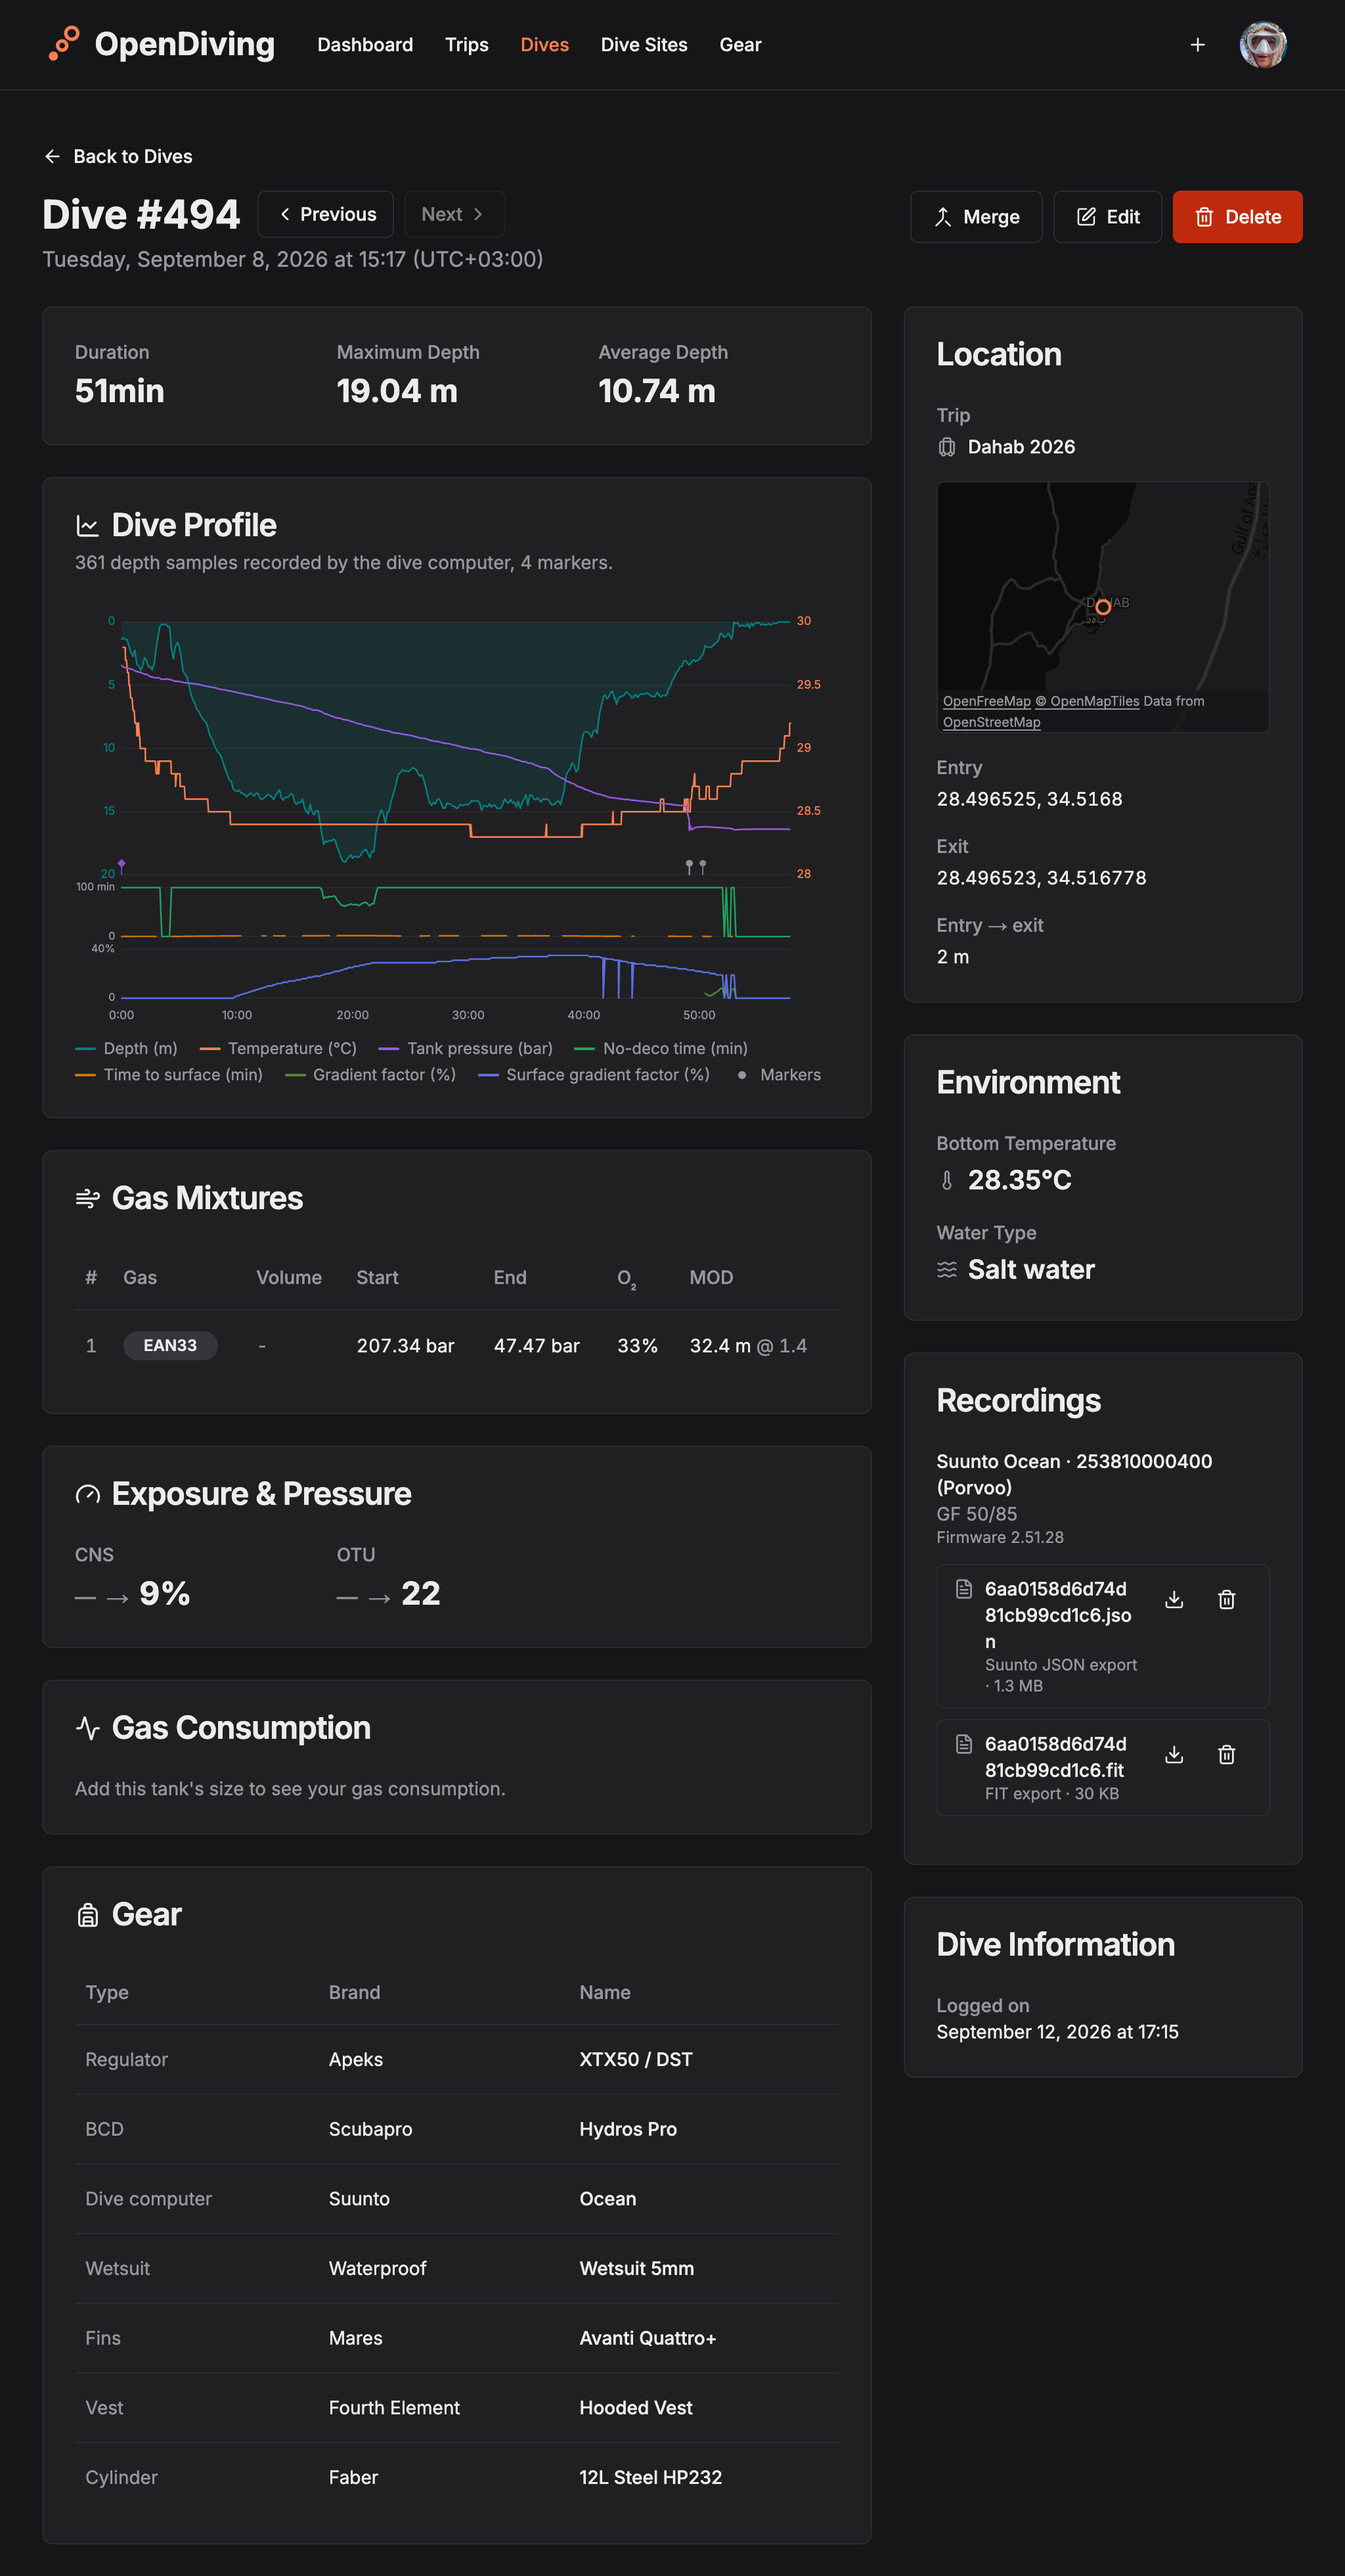
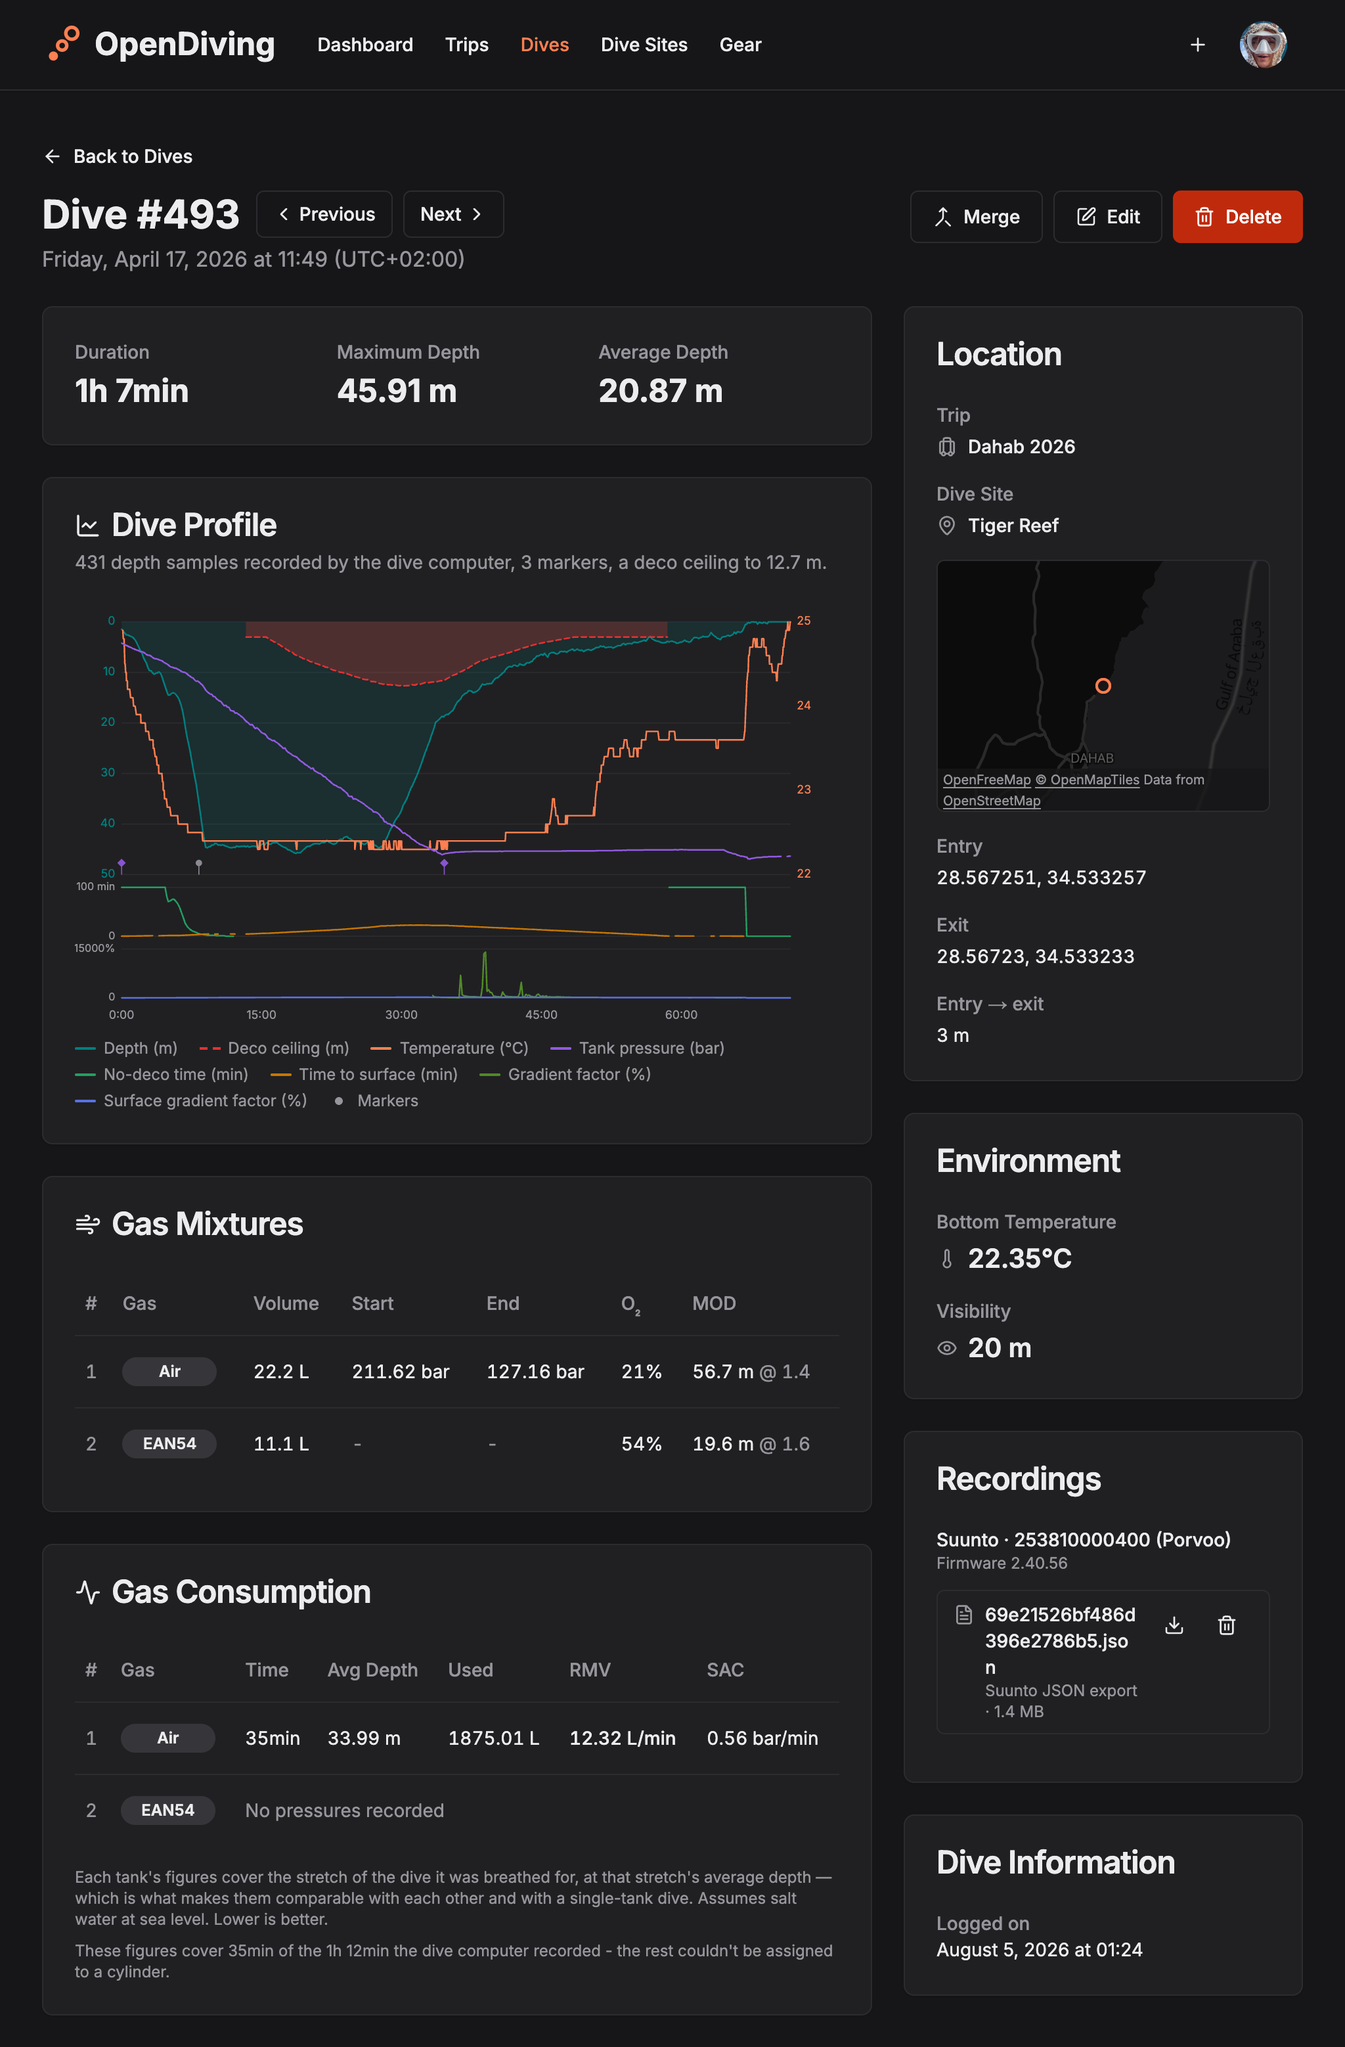
feat(screenshots): DIVE_UUID names the dive, and the image is of one with a ceiling
The rank is a count and counts tie. Every dive in a single-computer log
scores one, so the winner is whichever is most recent - which picked a dive
with no deco ceiling, no visibility and one mixture, whose Gas Consumption
card renders as an empty prompt rather than the SAC/RMV table.

DIVE_UUID skips the ranking rather than running it and overruling it. A uuid
that does not resolve, and one whose dive has no recording to chart, both
throw before the first shutter press; neither falls back.

The committed image is of a dive that carries a deco ceiling, a visibility
and two mixtures. Its geometry falsified two figures in DECISIONS.md - the
frame is no longer two thirds of the page nor the tallest of the three
images - so both are now described rather than counted.

diff --git a/DECISIONS.md b/DECISIONS.md
@@ -3506,6 +3506,26 @@ alternatives are both worse: verifying a second magic link server-side runs into
 three-per-email-per-fifteen-minutes limit within a single retake, and calling `/auth/refresh` from
 the page rotates the cookie out from under the app.
 
+**`DIVE_UUID` names the dive outright, for when the rank cannot tell the candidates apart.** The
+rank is a count, and counts tie. In a log whose dives each came off one computer every candidate
+scores one, nothing ever beats the first, and the subject is simply the most recent dive - which is
+not a property worth photographing. That picked one with no deco ceiling, no visibility and a single
+mixture, whose _Gas Consumption_ card renders as the prompt to enter a start and end pressure
+instead of the derived SAC/RMV table this image is partly there to show, while a dive a few rows
+down the same list had all three. Set, the environment variable is used as given and the ranking is
+skipped rather than run and overruled; absent, nothing changes. It is the only thing about the
+subjects that can be held still, which is why _"One shot at a time, optionally"_ above still stands:
+the gear item is re-ranked every run and "due in 24 days" counts down regardless.
+
+**Both of its failures throw, before the first shutter press.** A uuid `GET /dive/{uuid}` will not
+answer for, and one whose dive has no recording carrying samples - the second because the profile
+card renders nothing without them, so the page photographs flat and the `Dive Profile` wait times
+out anyway. Neither falls back to the ranking, because a run that quietly shot a different dive than
+the one it was handed would say so only in a line of output nobody reads, which is this script's own
+recurring failure (see _"The dive shot is ranked by recordings"_ below). The run's subject line says
+which mechanism chose, `named by DIVE_UUID` against `ranked`, so a variable that never arrived is
+visible in the output rather than only in the image.
+
 **The clock is pinned to 09:00, so the dashboard greets the same way every retake.** The heading
 reads "Good morning/afternoon/evening" off `new Date().getHours()` (see _"The heading greets by time
 of day"_ above), which made the hero image a record of what time the maintainer happened to run the
@@ -3558,12 +3578,13 @@ _for_, not the card that comes out last; where the frame actually ends is the su
 
 **The committed image is of a dive with one recording, and shows no profile switcher.** That is not
 a regression and not a missing card. `DiveProfileCard` draws the switcher only once a _second_
-recording of the same dive has a profile, and no dive in the log these images come from has one, so
-the ranking above settled for the best available and photographed it honestly. Shooting a different
-account instead is not the way out: all three README images are one product tour, and a set taken
-from two logs is a defect that has been caught here before. A retake against a log that does hold a
-two-computer dive will grow a control above the chart that this image does not have — check that
-before reading its absence as a regression.
+recording of the same dive has a profile, and no dive in the log these images come from has one — so
+neither the ranking nor a subject named by `DIVE_UUID` could have produced that control, and what
+was shot is the best the log holds, photographed honestly. Shooting a different account instead is
+not the way out: all three README images are one product tour, and a set taken from two logs is a
+defect that has been caught here before. A retake against a log that does hold a two-computer dive
+will grow a control above the chart that this image does not have — check that before reading its
+absence as a regression.
 
 ### A cut that cannot slice a card
 
@@ -3592,16 +3613,16 @@ anchor, which was not open at the anchor's bottom and so was never in the sweep.
 reaches into the main column's next card, and only the third pass settles. Each pass that moves the
 cut has found a card the one before it could not see, so the loop is bounded by the number of cards.
 
-**The frame that comes out can be a long way below the card that named it.** The committed image
-runs several hundred pixels past the bottom of the _Recordings_ card it is anchored on, because
-those two columns finish together in exactly one place below it — it is two thirds of the page, and
-taller than both the hero and the gear image beside it in the README table. How far past is not
-written down here, because it moves with whichever dive the subject picker lands on: a retake whose
-subject had a taller _Recordings_ card closed the gap by eighty-odd pixels without anything about
-the mechanism changing. That is the trade the parent section above already rules on: cutting where
-nothing is sliced matters more than the exact number, and more than the shots agreeing on one. The
-alternative was to cut _above_ the offending card, which would drop the anchor out of the frame and
-defeat the shot.
+**The frame that comes out can end a long way below the card that named it.** The committed image
+runs past the bottom of the _Recordings_ card it is anchored on, down to the one place below it
+where those two columns happen to finish together — far enough that the frame is a substantial part
+of the whole page. Neither that distance nor how the image compares in height to the other two is
+written down here, because both move with whichever dive is being photographed, and both have moved:
+changing the subject has shrunk the overshoot and taken this from the tallest of the three images to
+the middle one, with nothing about the mechanism changing. That is the trade the parent section
+above already rules on: cutting where nothing is sliced matters more than the exact number, and more
+than the shots agreeing on one. The alternative was to cut _above_ the offending card, which would
+drop the anchor out of the frame and defeat the shot.
 
 **The dashboard is unmoved, deliberately.** Its cards finish together at the anchor already, so the
 loop settles on the first pass at exactly the height the single line returned — and the loop is

diff --git a/CONTRIBUTING.md b/CONTRIBUTING.md
@@ -128,6 +128,10 @@ this one (`../opendiving`, or `PRODUCT_DIR`), from the same shutter press. With 
 says so and writes only this repository's, which is what a contributor with one checkout gets.
 Committing the regenerated files over there is a separate, manual step.
 
+The subjects — which dive, which gear item — are picked out of the account's own log and so move
+between runs. `DIVE_UUID=<uuid>` pins the dive when the pick is a dull one, and throws rather than
+falling back if that dive cannot be read or has no recording to chart.
+
 Every shot uses one width, and the year the two dashboard charts are parked on is a constant beside
 it at the top of `scripts/screenshots.mjs`. No dimension is a round number — 1024 is `lg`, where the
 detail pages stop stacking their sidebar, and the heights are either measured in the page moments
